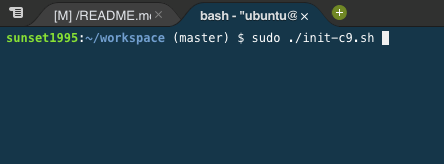
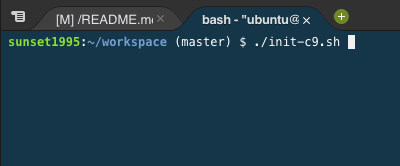
Fix c9 init script

Changed region(s): [[0.0, 0.0, 1.0, 0.3049]]

diff --git a/term-project/install/ballfight-c9.md b/term-project/install/ballfight-c9.md
@@ -20,7 +20,7 @@
     ![](../images/c9-2.png)  
 5. 按 _綠色的 +_ 按鈕然後選擇 _New Terminal_（見下圖），開啟新 Terminal(黑盒子)  
     ![](../images/c9-3.png)  
-6. 在 Terminal 輸入 `sudo ./init-c9.sh`（如下圖）並按下 enter 執行。其中已包含 `sudo pip3 install -r requirements.txt` 把 _hero.py_ 所需套件裝好。  
+6. 在 Terminal 輸入 `./init-c9.sh`（如下圖）並按下 enter 執行。其中已包含 `sudo pip3 install -r requirements.txt` 把 _hero.py_ 所需套件裝好。  
     ![](../images/c9-4.png)  
 
 
@@ -29,9 +29,8 @@
 ![](../images/c9-5.png)  
 打開 _hero.py_ 後就可以開始 Coding 了！  
 有以下方法可以執行 _hero.py_：  
-1. 按鍵盤上的 `F5` 鍵（Mac 請按 `fn + F5`）  
-2. 按下畫面中最上方寫有 _run_ 的綠色按鈕  
-3. 開啟 Terminal(黑盒子) 並輸入 `python3 hero.py`  
+1. 按下畫面中最上方寫有 _run_ 的綠色按鈕（之後就可以使用鍵盤上的 `F5` 鍵執行（Mac 請按 `fn + F5`））  
+2. 開啟 Terminal(黑盒子) 並輸入 `python3 hero.py`  
 
 若你用方法 1 或 2 執行，應該會看到以下 SyntaxError    
 ![](../images/c9-6.png)  
